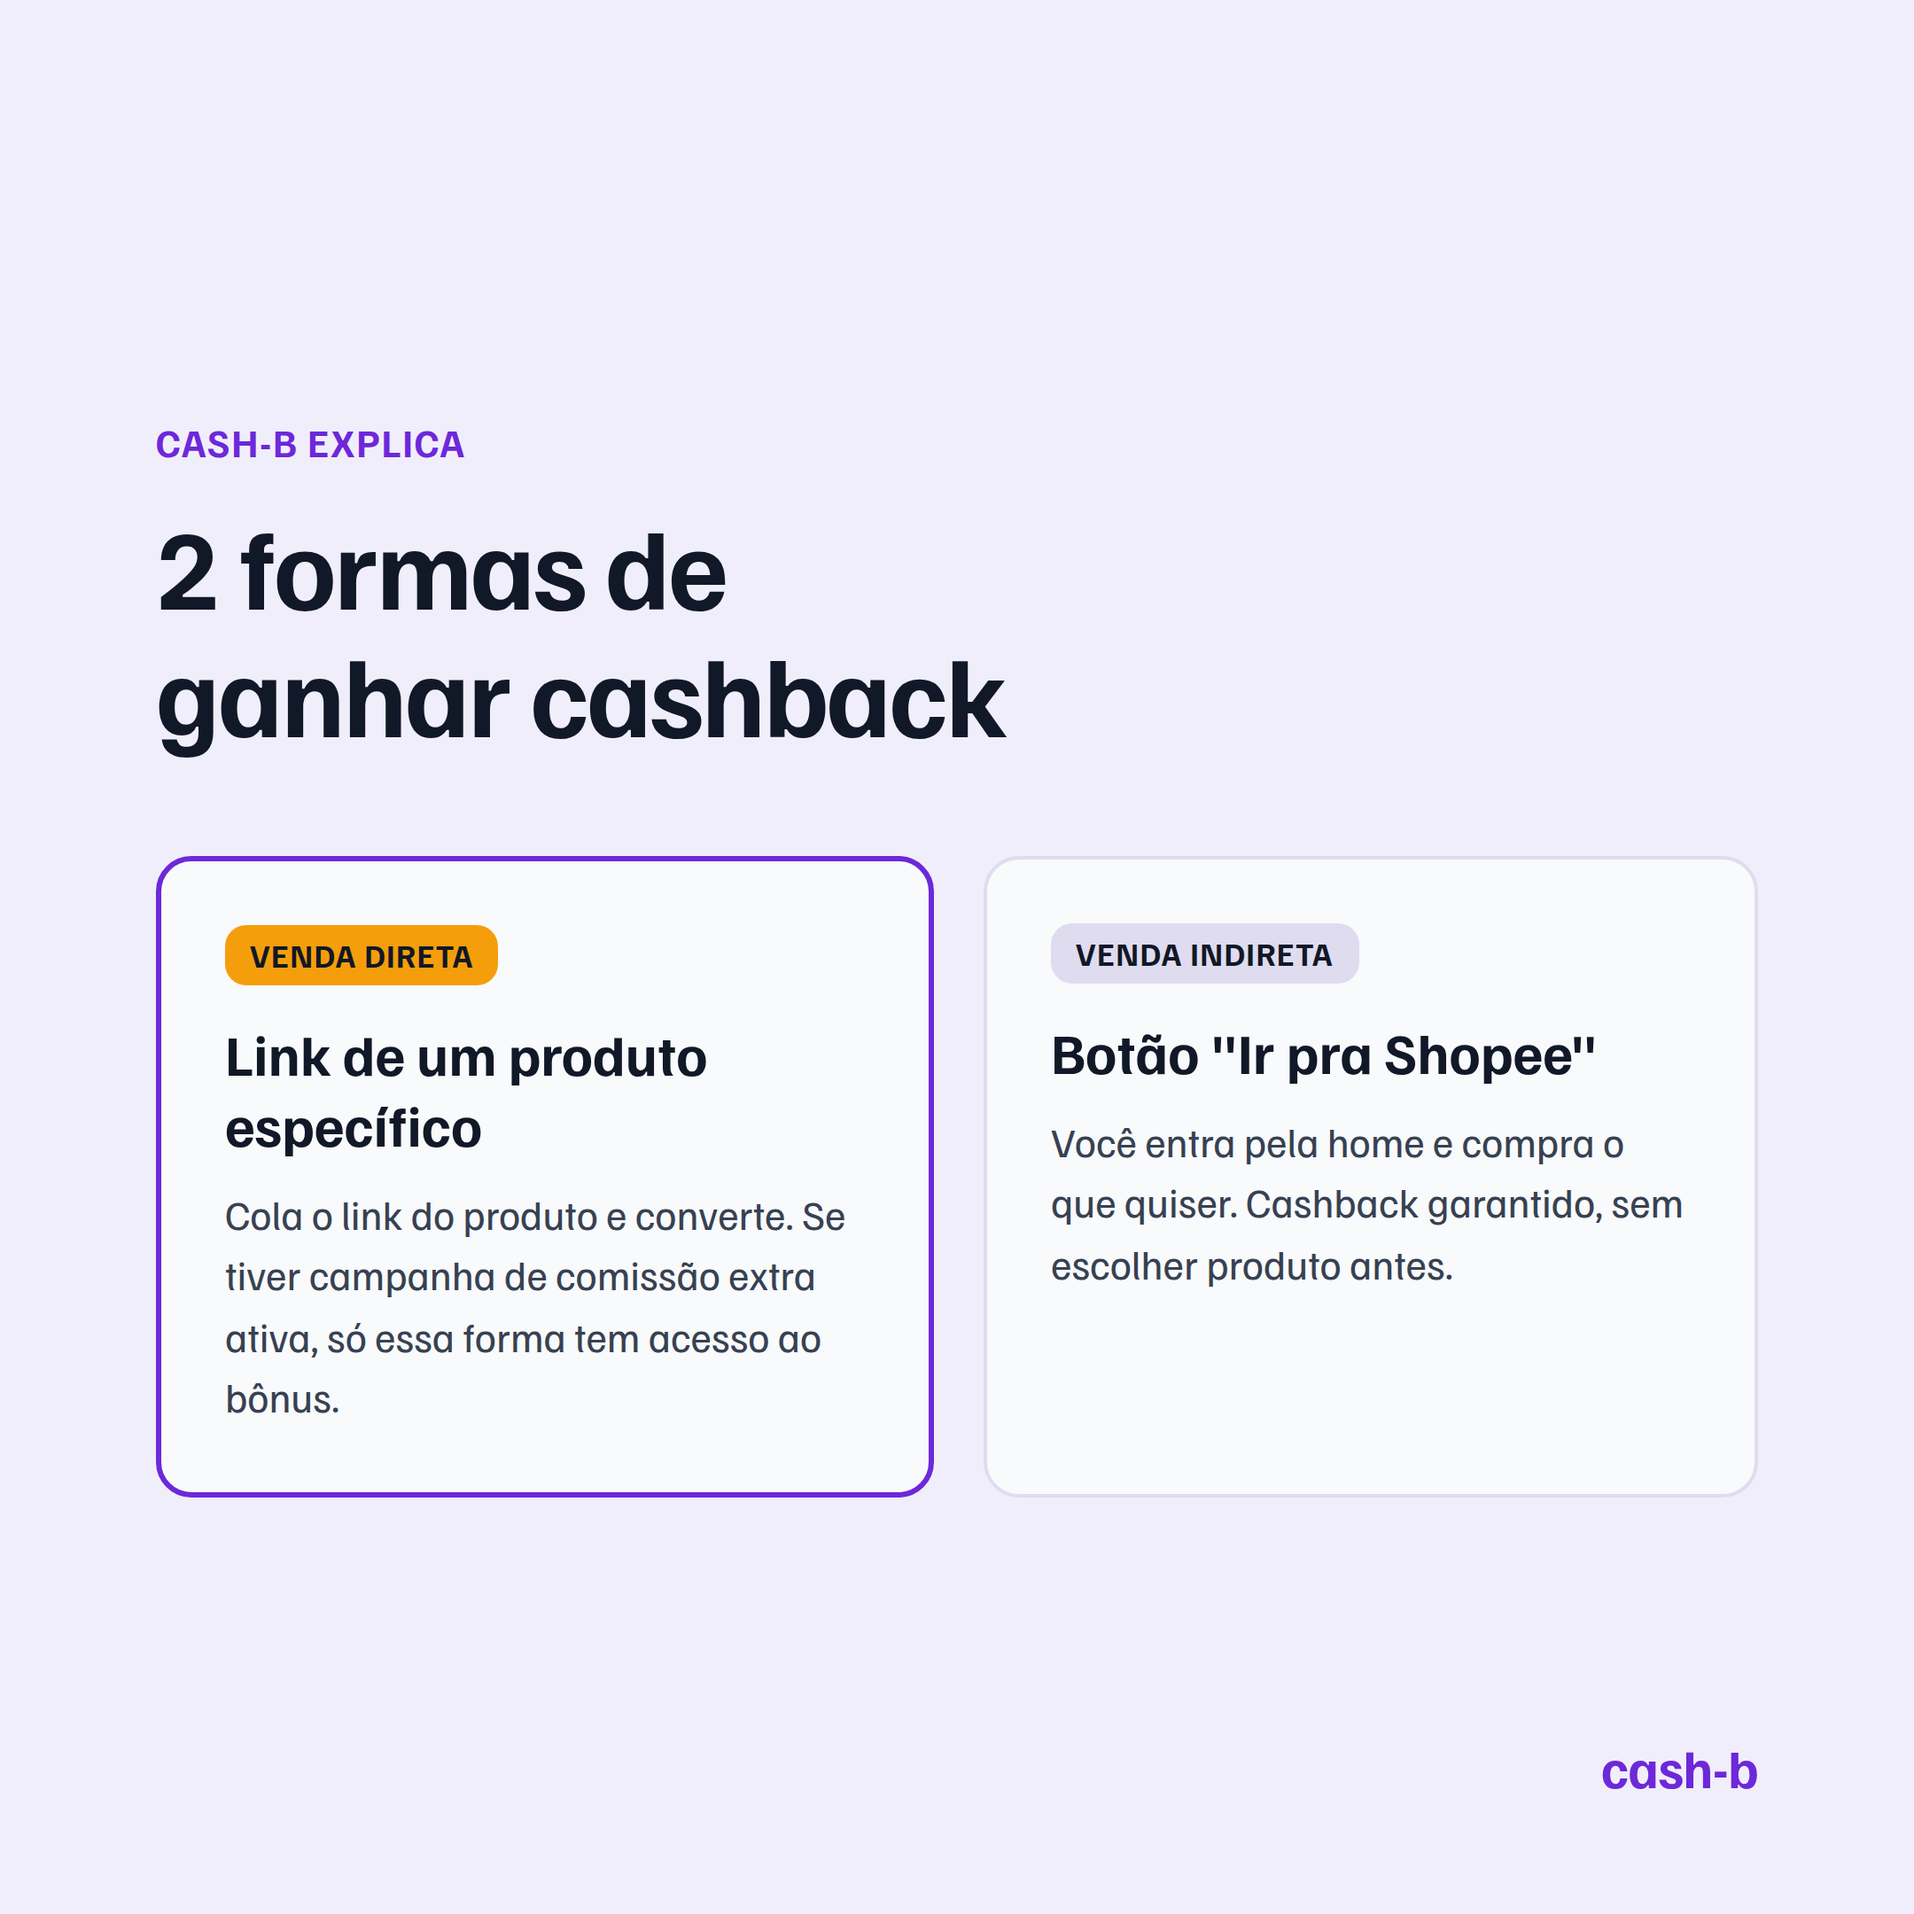
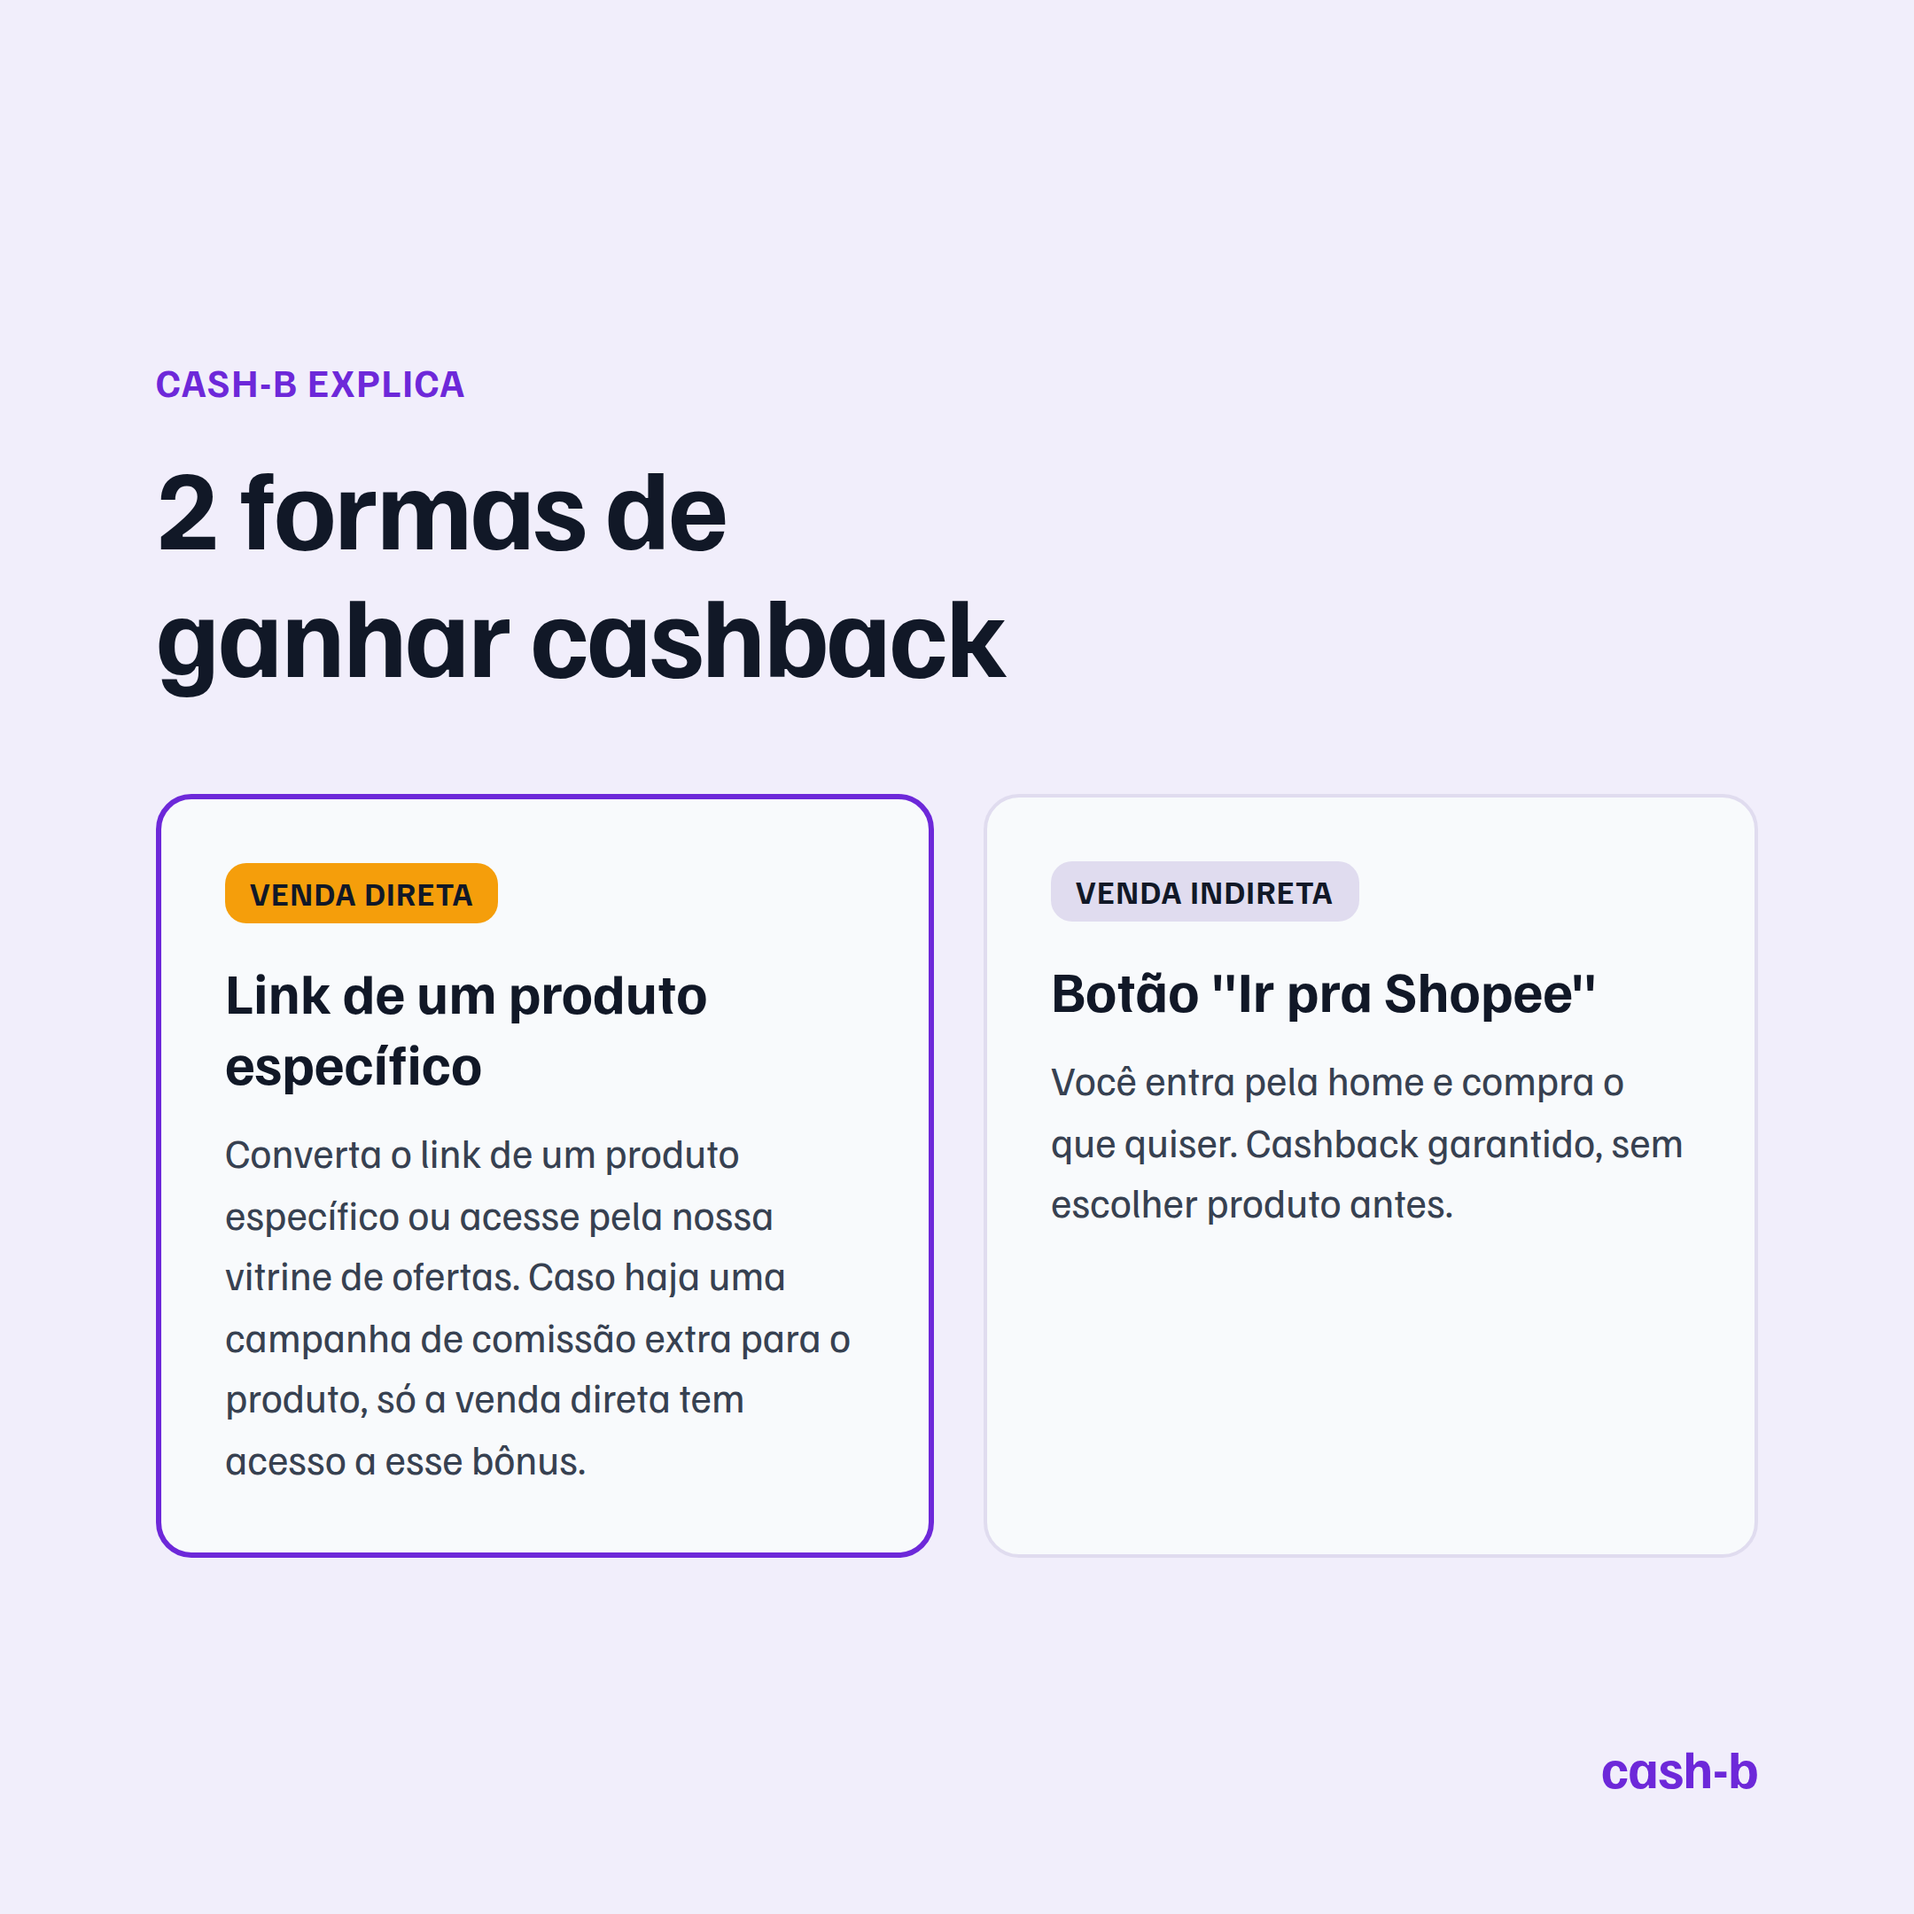
Atualiza texto da "Venda direta" no post 03 de semeadura
Alinha com o texto atual do site (venda direta x indireta): cita a
vitrine de ofertas como forma de acesso, além do conversor de link.

Claude-Session: https://claude.ai/code/session_017WZWLEiMQvHUst5KUYseHY

diff --git a/marketing/instagram/gerar_posts_semeadura.py b/marketing/instagram/gerar_posts_semeadura.py
@@ -120,7 +120,7 @@ render("split", f"""
     <div class="eyebrow" style="color:{COLORS['brand']};">cash-b explica</div>
     <div class="headline">2 formas de<br>ganhar cashback</div>
     <div style="display:flex; gap:28px; margin-top:56px;">
-        {split_card("Venda direta", COLORS['highlight'], "Link de um produto específico", "Cola o link do produto e converte. Se tiver campanha de comissão extra ativa, só essa forma tem acesso ao bônus.", destaque=True)}
+        {split_card("Venda direta", COLORS['highlight'], "Link de um produto específico", "Converta o link de um produto específico ou acesse pela nossa vitrine de ofertas. Caso haja uma campanha de comissão extra para o produto, só a venda direta tem acesso a esse bônus.", destaque=True)}
         {split_card("Venda indireta", COLORS['line'], 'Botão "Ir pra Shopee"', "Você entra pela home e compra o que quiser. Cashback garantido, sem escolher produto antes.")}
     </div>
     <div class="badge" style="color:{COLORS['brand']};">cash-b</div>
